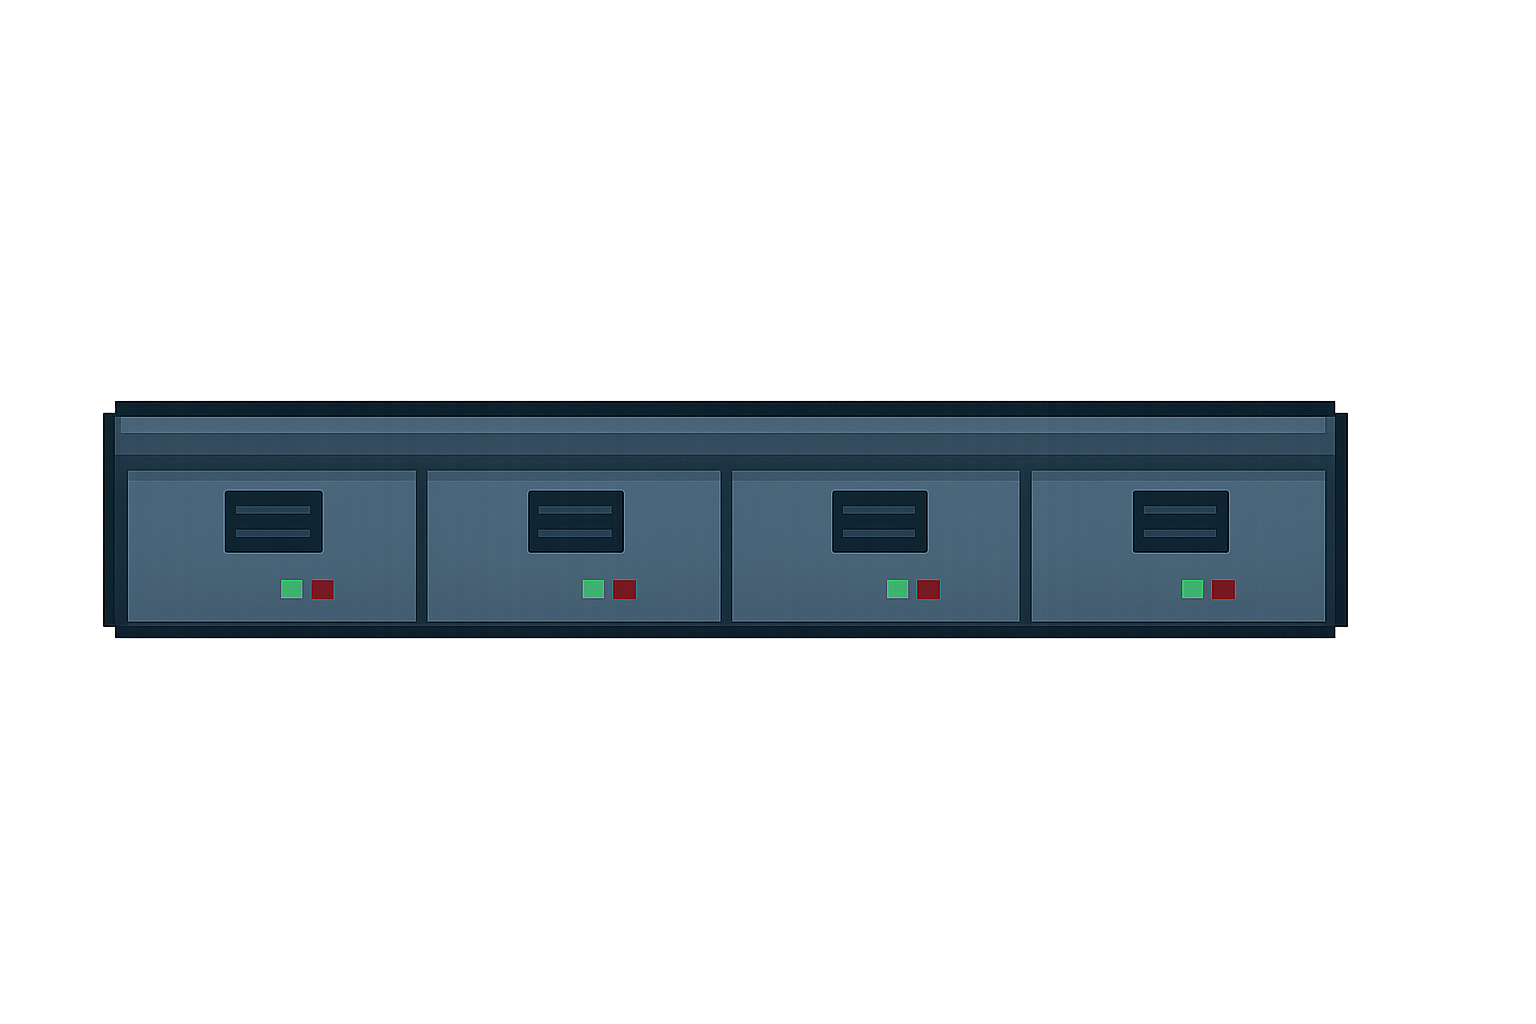
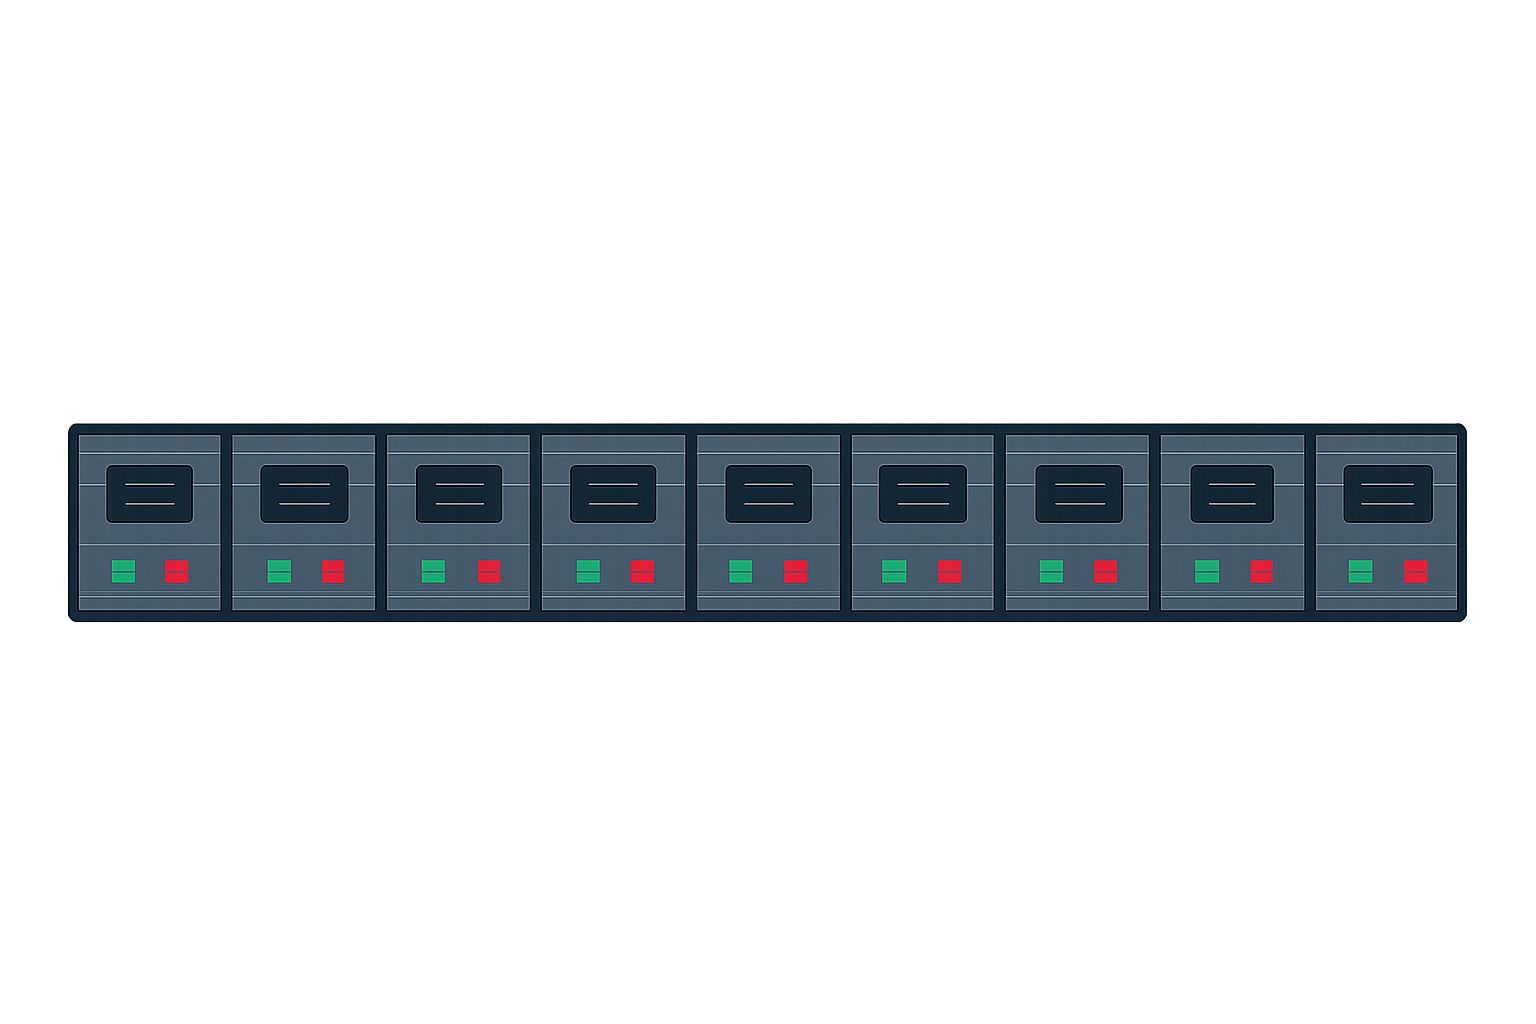
server aan de onderkant toegevoegd

Changed region(s): [[0.0312, 0.375, 0.9688, 0.625]]

diff --git a/defender/play.html b/defender/play.html
@@ -140,7 +140,6 @@
       place-items: center;
       background: radial-gradient(960px 520px at 50% 30%, #0f1b3a 0%, #0b1020 60%, #050814 100%);
       border-radius: 12px 12px 0 0;
-      /* boven afgerond; onder recht voor naad met banner */
       overflow: hidden;
     }
 
@@ -156,14 +155,8 @@
       display: block;
       width: 100%;
       height: 72px;
-      /* ← vaste (kleine) hoogte */
       object-fit: cover;
-      /* snijdt indien nodig, zodat hij dun blijft */
       margin: 0;
-      /* geen ruimte ertussen */
-      border-radius: 0 0 12px 12px;
-      vertical-align: top;
-      /* voorkomt 1px baseline-gap */
     }
 
     /* (optioneel) als je de banner iéts dunner wilt: height: 56px; of 64px */
@@ -182,7 +175,7 @@
 
     <div class="game-wrap">
       <div id="gameMount" aria-label="Spelcanvas"></div>
-      <img class="server-banner" src="assets/server.png" alt="Server" />
+      <img class="server-banner" src="assets/server2.png" alt="Server" />
     </div>
   </div>
 
